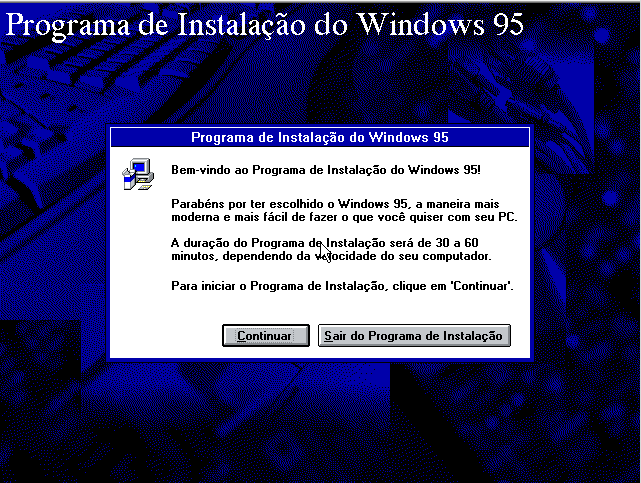
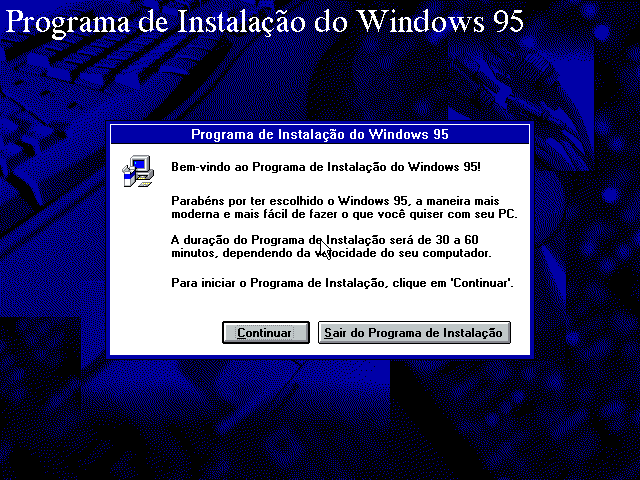
Alteradas imagens do artigo do Windows 95.

diff --git a/articles/mleandrojr/o-windows-95-esta-fazendo-30-anos/article.md b/articles/mleandrojr/o-windows-95-esta-fazendo-30-anos/article.md
@@ -86,7 +86,7 @@ A instalação do Windows 95 já era bem bonita, trazia aquele papel de parede c
 
 E permitia escolher o tipo de instalação.
 
-![](images/w95-install-02.jpg "Instalação do Windows 95")
+![](images/w95-install-02.png "Instalação do Windows 95")
 
 E enquanto instalava o sistema, aproveitava para apresentar algumas novidades.
 
